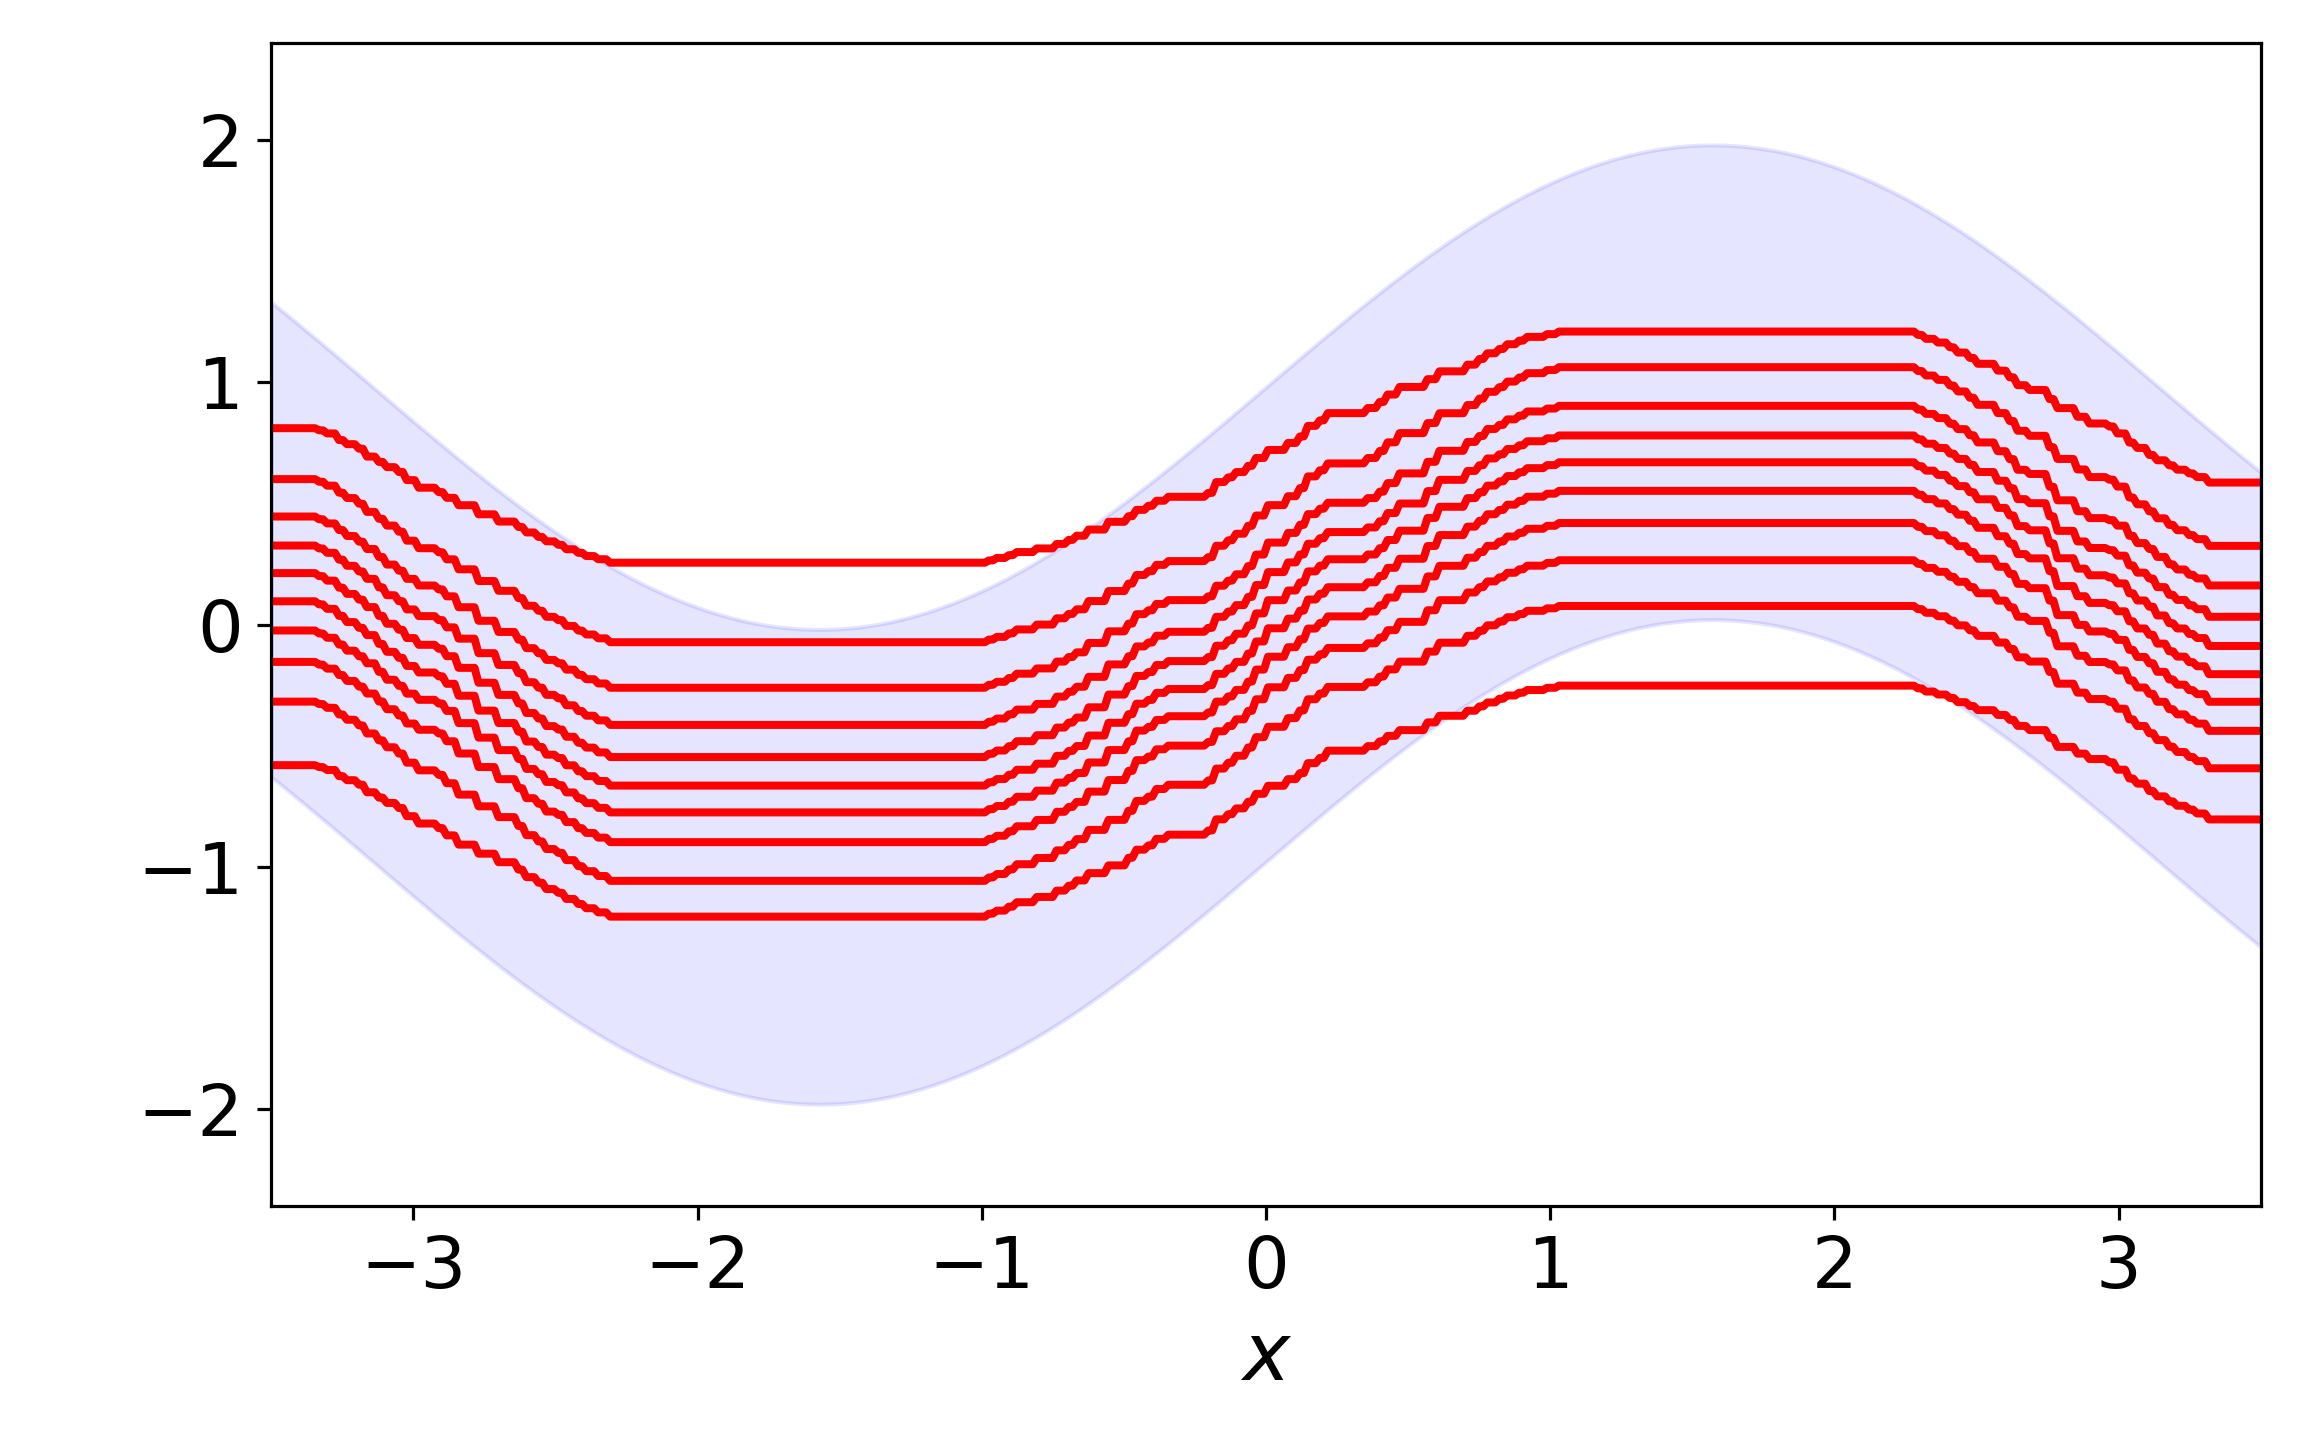
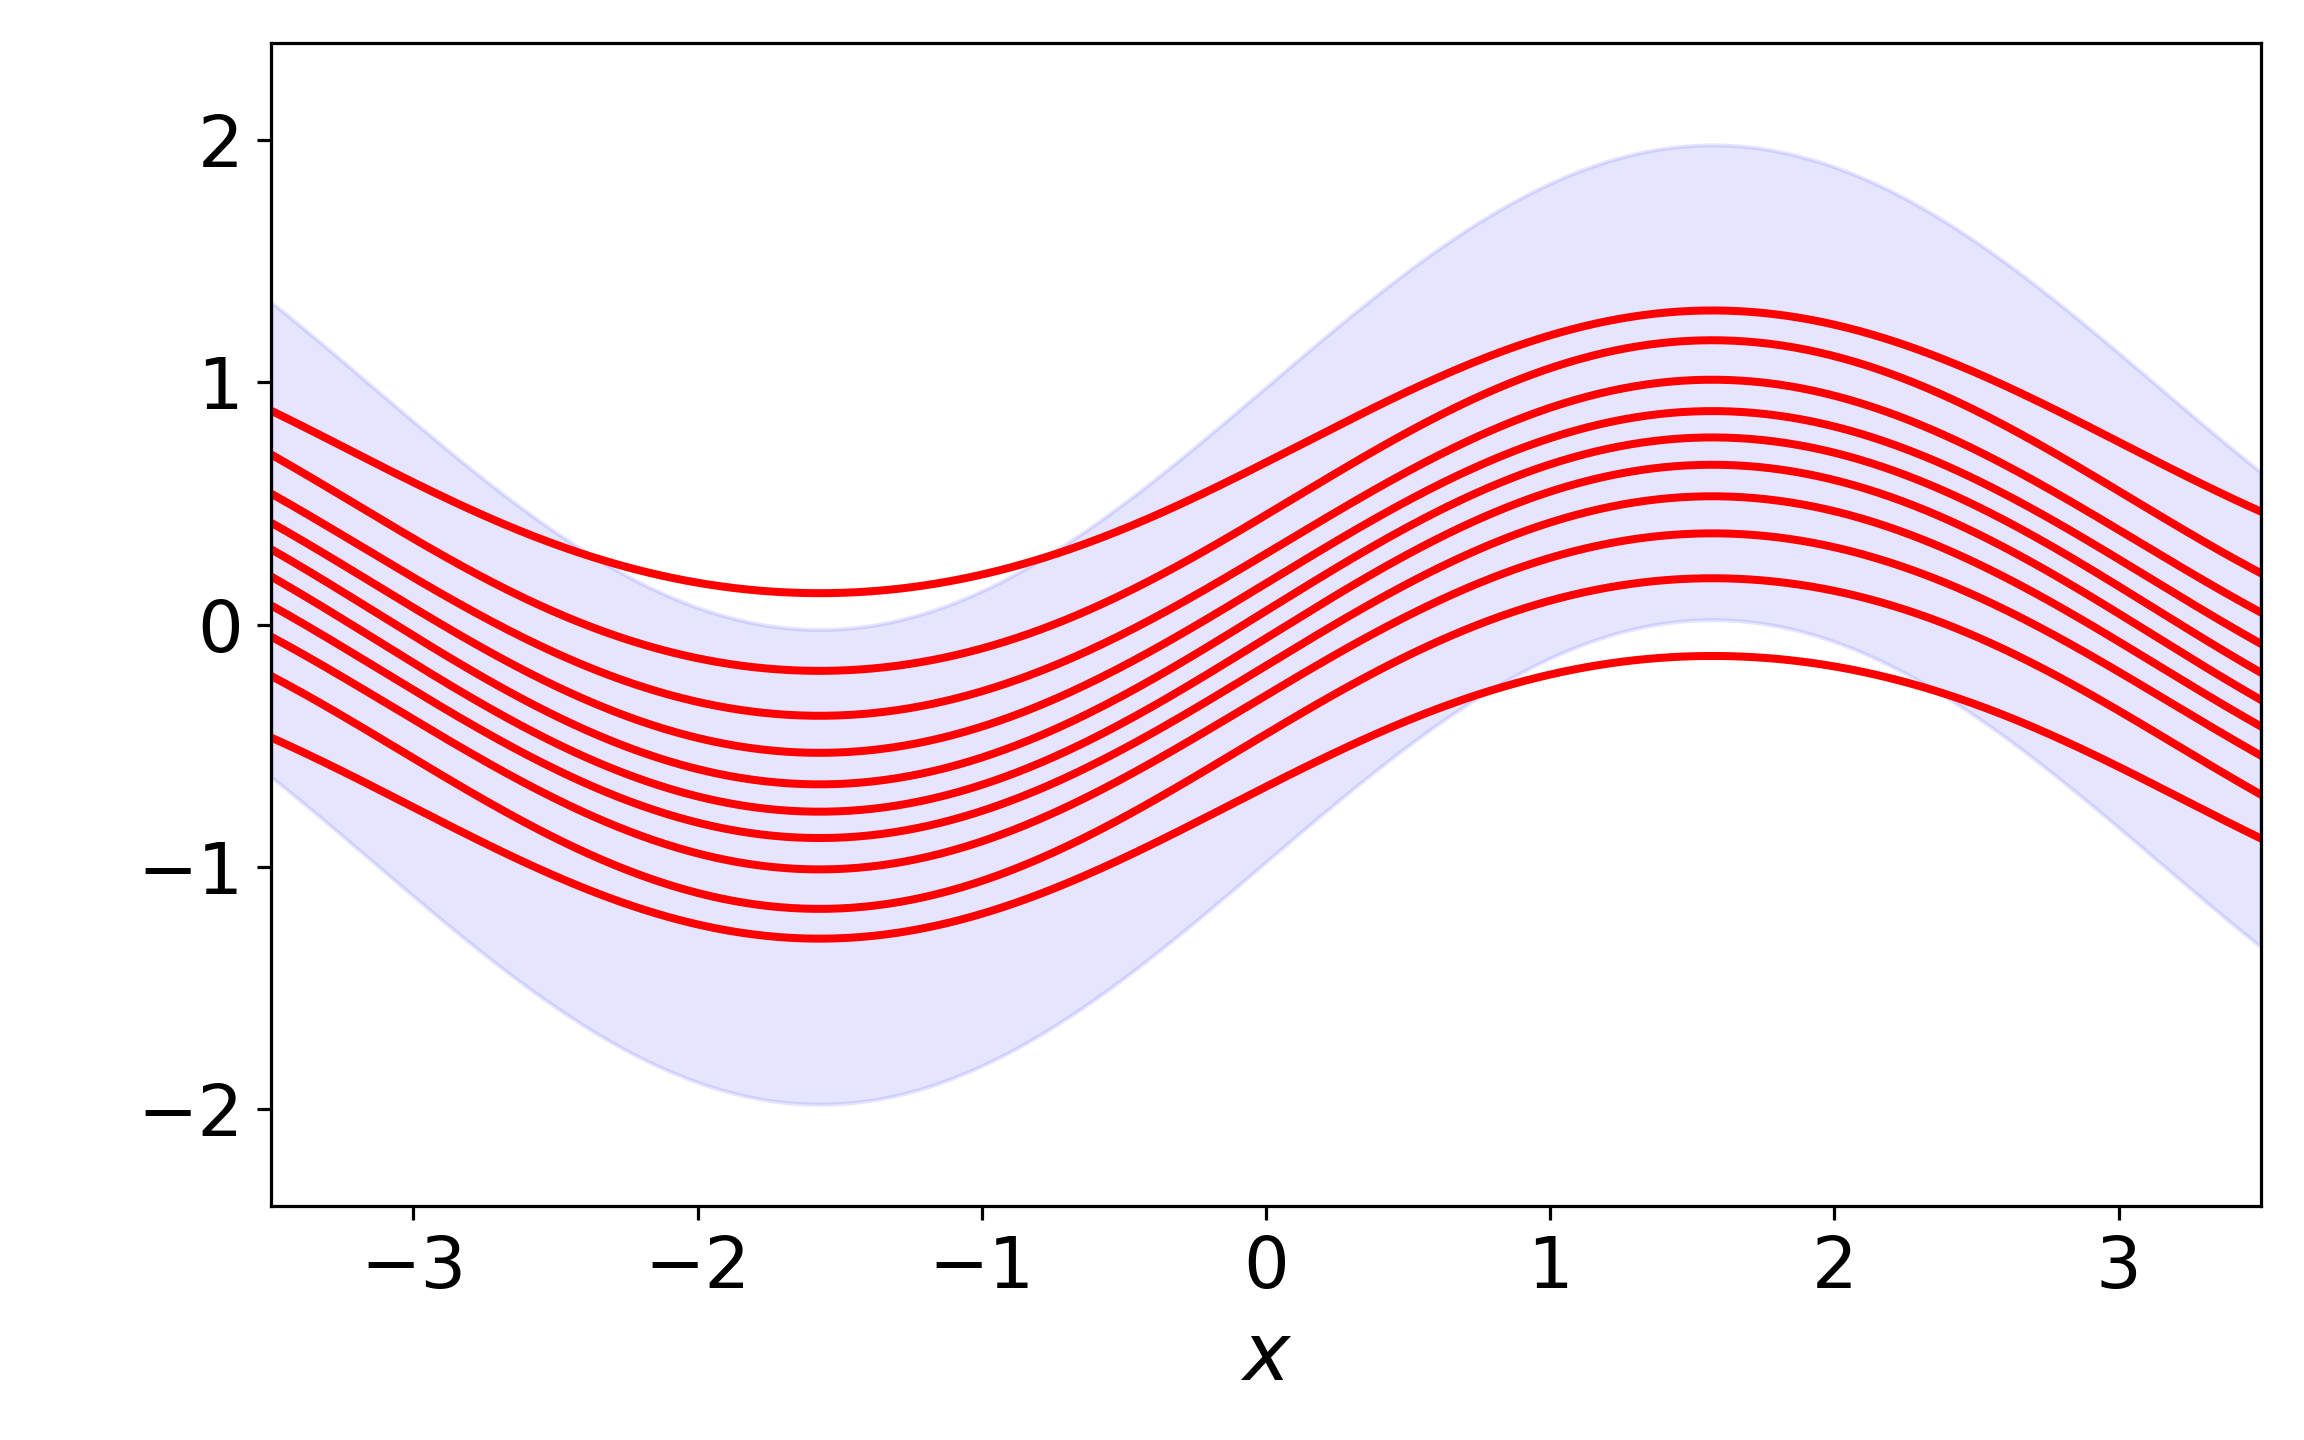
update

Changed region(s): [[0.0938, 0.1875, 1.0, 0.6562]]

diff --git a/supplement/comparison.py b/supplement/comparison.py
@@ -51,7 +51,7 @@ def plot_result(results_T, results_S, offset=1):
     sns.lineplot(x=np.log10(np.arange(offset,args.max_estimators+1)), y=np.log10(results_T[2,offset-1:]), linewidth=2, ax=ax)
     sns.lineplot(x=np.log10(np.arange(offset,args.max_estimators+1)), y=np.log10(results_T[3,offset-1:]), linewidth=2, ax=ax)
     
-    ax.set_xlabel(r"common-log base learner number", fontsize=18)
+    ax.set_xlabel(r"common-log weak learner number", fontsize=18)
     ax.set_ylabel(r"common-log computation time", fontsize=18)
     ax.tick_params(axis='x', labelsize=16)
     ax.tick_params(axis='y', labelsize=16)
@@ -61,12 +61,12 @@ def plot_result(results_T, results_S, offset=1):
 
     fig, ax = plt.subplots(1, 1, figsize=(8,5))
     
-    sns.lineplot(x=np.arange(offset,args.max_estimators+1), y=results_S[0,offset-1:], linewidth=2, ax=ax, label="FKA-WGBoost")
-    sns.lineplot(x=np.arange(offset,args.max_estimators+1), y=results_S[1,offset-1:], linewidth=2, ax=ax, label="SKA-WGBoost")
-    sns.lineplot(x=np.arange(offset,args.max_estimators+1), y=results_S[2,offset-1:], linewidth=2, ax=ax, label="NKA-WGBoost")
+    sns.lineplot(x=np.arange(offset,args.max_estimators+1), y=results_S[0,offset-1:], linewidth=2, ax=ax, label="First-order WEvidential")
+    sns.lineplot(x=np.arange(offset,args.max_estimators+1), y=results_S[1,offset-1:], linewidth=2, ax=ax, label="Default WEvidential")
+    sns.lineplot(x=np.arange(offset,args.max_estimators+1), y=results_S[2,offset-1:], linewidth=2, ax=ax, label="Full-Newton WEvidential")
     sns.lineplot(x=np.arange(offset,args.max_estimators+1), y=results_S[3,offset-1:], linewidth=2, ax=ax, label="LGBoost")
     
-    ax.set_xlabel(r"base learner number", fontsize=18)
+    ax.set_xlabel(r"weak learner number", fontsize=18)
     ax.set_ylabel(r"maximum mean discrepancy", fontsize=18)
     ax.tick_params(axis='x', labelsize=16)
     ax.tick_params(axis='y', labelsize=16)
@@ -101,7 +101,7 @@ def plot_output(X_test, P_test, filename, scale=0.5):
     ax.set_xlim(-3.5, 3.5)
     ax.set_ylim(-2.7, 2.7)
     ax.set_xlabel(r"$x$", fontsize=14)
-    ax.set_ylabel(r"$y$", fontsize=14)
+    ax.set_ylabel(r"$\theta$", fontsize=14)
     ax.tick_params(axis='x', labelsize=12)
     ax.tick_params(axis='y', labelsize=12)
 
@@ -191,9 +191,9 @@ def main(args):
 
     results_T = np.zeros((4, args.max_estimators))
     results_S = np.zeros((4, args.max_estimators))
-    results_T[0], results_S[0] = get_result(get_fwgboost(args.max_estimators), X, Z, "FKA-WGBoost")
-    results_T[1], results_S[1] = get_result(get_swgboost(args.max_estimators), X, Z, "SKA-WGBoost")
-    results_T[2], results_S[2] = get_result(get_nwgboost(args.max_estimators), X, Z, "NKA-WGBoost")
+    results_T[0], results_S[0] = get_result(get_fwgboost(args.max_estimators), X, Z, "F-WEvidential")
+    results_T[1], results_S[1] = get_result(get_swgboost(args.max_estimators), X, Z, "D-WEvidential")
+    results_T[2], results_S[2] = get_result(get_nwgboost(args.max_estimators), X, Z, "N-WEvidential")
     results_T[3], results_S[3] = get_result(get_lgboost(args.max_estimators), X, Z, "LGBoost")
     plot_result(results_T, results_S, offset=args.offset)
 

diff --git a/supplement/output.py b/supplement/output.py
@@ -20,7 +20,7 @@ import seaborn as sns
 import sys
 sys.path.insert(0, '../src')
 from fwgboost import FWGBoost
-from sklearn.tree import DecisionTreeRegressor
+from sklearn.kernel_ridge import KernelRidge
 
 
 
@@ -32,7 +32,7 @@ def plot_output(X_test, P_test, filename, is_yon=False, scale=0.5):
     ax.set_xlim(-3.5, 3.5)
     ax.set_ylim(-2.4, 2.4)
     ax.set_xlabel(r"$x$", fontsize=20)
-    ylabel = r"$y$" if is_yon else " "
+    ylabel = r"$\theta$" if is_yon else " "
     ax.set_ylabel(ylabel, fontsize=20)
     ax.tick_params(axis='x', labelsize=18)
     ax.tick_params(axis='y', labelsize=18)
@@ -53,15 +53,15 @@ def main():
     torch.manual_seed(1)
     torch.set_num_threads(1)
     
-    X = np.linspace(-3.5, 3.5, 200).reshape(-1,1)
+    X = np.linspace(-3.5, 3.5, 10).reshape(-1,1)
     Z = np.sin(X)
 
     scale = 0.5
     grad_logp = lambda p, y: - (p - y) / scale**2
-    init_locs = np.linspace(-0.5, 0.5, 10).reshape(-1, 1)
+    init_locs = np.linspace(-0.4, 0.4, 10).reshape(-1, 1)
 
-    reg = FWGBoost(grad_logp, DecisionTreeRegressor,
-        learner_param = {'max_depth': 3, 'random_state': 1},
+    reg = FWGBoost(grad_logp, KernelRidge,
+        learner_param = {'kernel': 'rbf', 'alpha': 0.0, 'gamma': 0.25},
         learning_rate = 0.05,
         n_estimators = 100,
         n_particles = 10,

diff --git a/README.md b/README.md
@@ -4,13 +4,14 @@
 
 ## About
 
-Wasserstein Gradient Boosting (WGBoost) is a novel family of gradient boosting that returns a set of particles that approximate a target distribution assigned at each input-data point.
-In probabilistic forecasts, a parametric output-distribution is often specified on the space of output variables and a machine learning model returns a point estimate of the output-distribution parameter for each input.
-A main application of WGBoost in this work is a novel distributional estimate of the output-distribution parameter, which approximates the posterior distribution over the output-distribution determined pointwise at each data point.
+Wasserstein Gradient Boosting (WGBoost) is a novel family of gradient boosting.
+It solves distribution-valued supervised learning, where the output values of the training dataset are probability distributions for each input
+In classification and regression, a model typically returns, for each input, a point estimate of a parameter of a noise distribution specified for a response variable, such as the class probability parameter of a categorical distribution specified for a response label. 
+A main application of Wasserstein gradient boosting in this work is tree-based evidential learning, which returns a distributional estimate of the response parameter for each input. 
 The probabilitic forecast by WGBoost delivers enhanced predictive accuracy and demonstrates usefulness for out-of-distribution detection.
 This repository contains sources codes for the following paper:
 
-> [Takuo Matsubara. Wasserstein Gradient Boosting: A General Framework with Applications to Posterior Regression. *arXiv:2405.09536*, 2024.](https://arxiv.org/abs/2405.09536)
+> Takuo Matsubara. Wasserstein Gradient Boosting: A Framework for Distribution-Valued Supervised Learning. *arxiv*, 2024.
 
 The files in this repository reproduce the experiments presented in the paper. Examples to run each code can be found in the 'script/' folder.
 
@@ -34,7 +35,7 @@ The source code uses Python (version 3.11.7) and the following Python libralies:
 
 ## Example Usage
 
-The following is an example usage of our default algorithm SKA-WGBoost (shortly SWGBoost for the class name).
+The following is an example usage of our default WGBoost algorithm (SWGBoost for the class name).
 We place the 'src/swgboost.py' file in the same directory as the example code or add a path to the file.
 
 ```python
@@ -123,8 +124,8 @@ The experiments in the paper use nine UCI datasets for regression and two UCI da
 Some of the datasets are remotely loaded from a UCI public server and the rest are directly loaded from the files placed under the directory "data/uci/".
 The processed files of the *segment* and *sensorless* datasets were downloaded from https://github.com/sharpenb/Posterior-Network.
 Additionally, the experiments use the *bone mineral density* dataset in "The Elements of Statistical Learning (Springer New York, 2009) by Trevor Hastie, Robert Tibshirani, and Jerome Friedman" and the *old faithful geyser* dataset in "Applied Linear Regression (John Wiley & Sons, 1985) by Sanford Weisberg", each of which are located under the directory "data/cde/".
-The former dataset were downloaded from https://hastie.su.domains/ElemStatLearn/.
-The latter dataset were downloaded from https://www.stat.cmu.edu/~larry/all-of-statistics/.
+The former can be downloaded from https://hastie.su.domains/ElemStatLearn/.
+The latter can be downloaded from https://www.stat.cmu.edu/~larry/all-of-statistics/.
 
 
 
